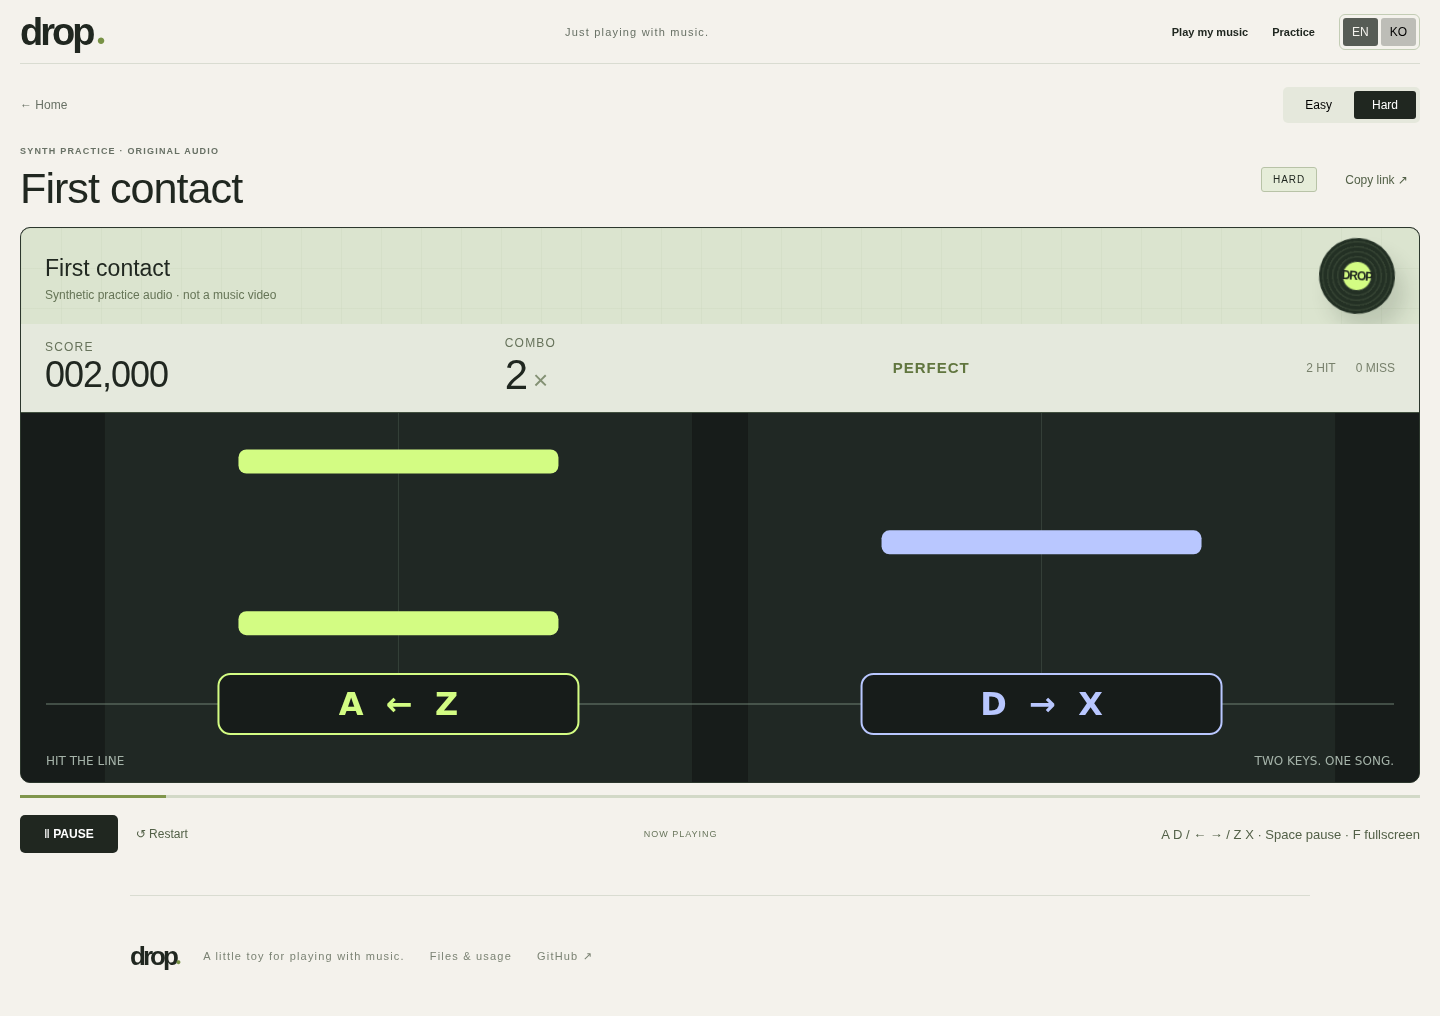
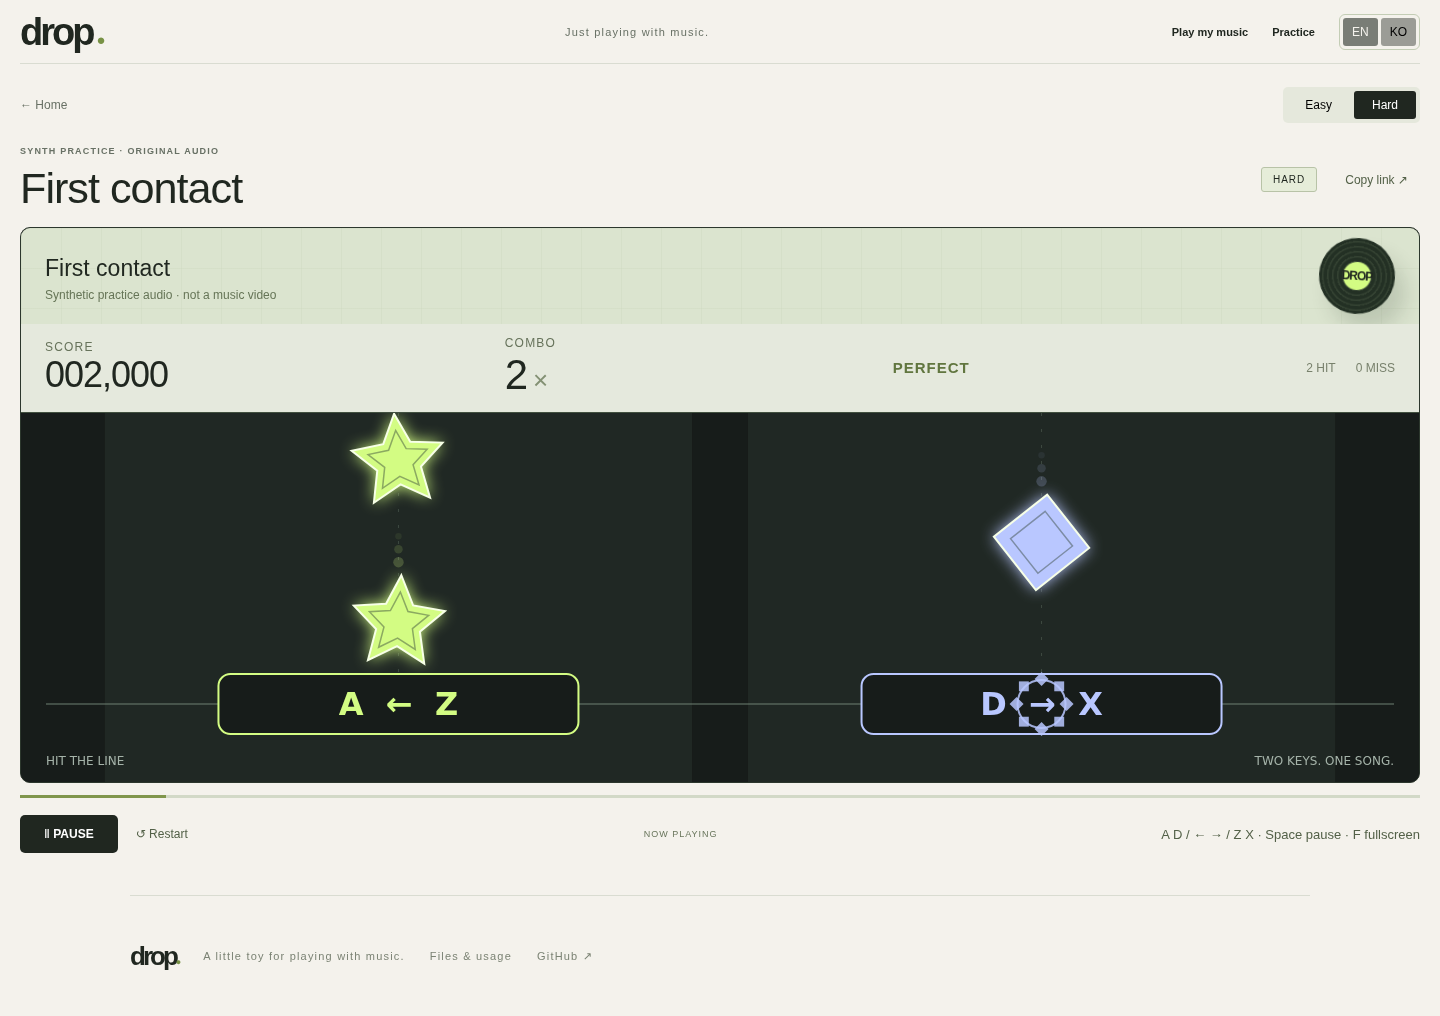
Add falling stars and diamonds and revise the bilingual headline

diff --git a/src/render.ts b/src/render.ts
@@ -1,47 +1,113 @@
 import type { Chart, Lane } from './chart';
 import type { Snapshot } from './engine';
+
+type Burst = { lane: Lane; born: number };
+type Effects = { hits: number; time: number; bursts: Burst[]; reduced: boolean; judged: ReadonlySet<number> };
+const effects = new WeakMap<HTMLCanvasElement, Effects>();
+const chartSpacing = new WeakMap<Chart, number>();
+function minimumLaneSpacing(chart: Chart) {
+  const cached = chartSpacing.get(chart);
+  if (cached !== undefined) return cached;
+  const previous: Partial<Record<Lane, number>> = {};
+  let spacing = 1000;
+  for (const note of chart.notes) {
+    const last = previous[note.lane];
+    if (last !== undefined) spacing = Math.min(spacing, note.timeMs - last);
+    previous[note.lane] = note.timeMs;
+  }
+  chartSpacing.set(chart, spacing);
+  return spacing;
+}
+
+function shape(ctx: CanvasRenderingContext2D, lane: Lane, radius: number) {
+  ctx.beginPath();
+  const points = lane === 'A' ? 10 : 4;
+  for (let i = 0; i < points; i++) {
+    const angle = -Math.PI / 2 + i * Math.PI * 2 / points;
+    const r = lane === 'A' && i % 2 ? radius * .48 : radius;
+    const x = Math.cos(angle) * r, y = Math.sin(angle) * r;
+    if (i === 0) ctx.moveTo(x, y); else ctx.lineTo(x, y);
+  }
+  ctx.closePath();
+}
+
 export function renderNotes(canvas: HTMLCanvasElement, chart: Chart, state: Snapshot, pressed: Set<Lane>) {
-  const width = canvas.clientWidth;
-  const height = canvas.clientHeight;
+  const width = canvas.clientWidth, height = canvas.clientHeight;
   const ratio = Math.min(window.devicePixelRatio || 1, 2);
   if (canvas.width !== Math.round(width * ratio) || canvas.height !== Math.round(height * ratio)) {
     canvas.width = Math.round(width * ratio); canvas.height = Math.round(height * ratio);
   }
   const ctx = canvas.getContext('2d');
   if (!ctx) return;
+  const hitY = height - 78;
+  const centers: Record<Lane, number> = { A: width * .27, D: width * .73 };
+  const colors: Record<Lane, string> = { A: '#d3fc83', D: '#b9c7ff' };
+  const laneWidth = width * .42;
+  // Keep dense Hard notes legible: cap the diameter by the nearest note spacing.
+  const spacing = minimumLaneSpacing(chart);
+  const radius = Math.max(18, Math.min(48, laneWidth * .23, spacing / 1800 * hitY * .8));
+  const keyWidth = Math.min(laneWidth * .85, 360);
+  let fx = effects.get(canvas);
+  if (!fx) { fx = { hits: state.hits, time: state.timeMs, bursts: [], judged: state.judged, reduced: matchMedia('(prefers-reduced-motion: reduce)').matches }; effects.set(canvas, fx); }
+  if (state.timeMs < fx.time || state.hits < fx.hits) fx.bursts = [];
+  if (state.hits > fx.hits && !fx.reduced) {
+    // Newly judged notes close to the current clock identify successful hits, even after keyup.
+    chart.notes.forEach((note, index) => {
+      if (state.judged.has(index) && !fx.judged.has(index) && Math.abs(note.timeMs + chart.offsetMs - state.timeMs) <= 140) fx.bursts.push({ lane: note.lane, born: state.timeMs });
+    });
+  }
+  fx.hits = state.hits; fx.time = state.timeMs; fx.judged = state.judged;
+  fx.bursts = fx.bursts.filter(burst => state.timeMs - burst.born < 420).slice(-8);
   ctx.setTransform(ratio, 0, 0, ratio, 0, 0);
   ctx.fillStyle = '#171c1a'; ctx.fillRect(0, 0, width, height);
-  const hitY = height - 78;
-  const left = width * 0.27;
-  const right = width * 0.73;
-  const laneWidth = width * 0.42;
-  const noteWidth = Math.min(laneWidth * 0.78, 320);
-  const keyWidth = Math.min(laneWidth * 0.85, 360);
   ctx.lineWidth = 1;
-  [left, right].forEach(x => {
+  for (const lane of ['A', 'D'] as const) {
+    const x = centers[lane];
     ctx.fillStyle = '#202824'; ctx.fillRect(x - laneWidth / 2, 0, laneWidth, height);
-    ctx.strokeStyle = '#354139'; ctx.beginPath(); ctx.moveTo(x, 0); ctx.lineTo(x, hitY); ctx.stroke();
-  });
+    ctx.strokeStyle = '#3d4a41'; ctx.setLineDash([3, 13]); ctx.beginPath(); ctx.moveTo(x, 0); ctx.lineTo(x, hitY); ctx.stroke(); ctx.setLineDash([]);
+  }
   ctx.strokeStyle = '#6e8073'; ctx.beginPath(); ctx.moveTo(25, hitY); ctx.lineTo(width - 25, hitY); ctx.stroke();
   chart.notes.forEach((note, i) => {
     if (state.judged.has(i)) return;
     const delta = note.timeMs + chart.offsetMs - state.timeMs;
     if (delta > 1800 || delta < -180) return;
     const y = hitY - delta / 1800 * hitY;
-    ctx.fillStyle = note.lane === 'A' ? '#d3fc83' : '#b9c7ff';
-    ctx.beginPath(); ctx.roundRect((note.lane === 'A' ? left : right) - noteWidth / 2, y - 12, noteWidth, 24, 8); ctx.fill();
+    const color = colors[note.lane];
+    ctx.save(); ctx.translate(centers[note.lane], y);
+    if (!fx.reduced) {
+      for (let tail = 3; tail > 0; tail--) {
+        ctx.globalAlpha = .07 * (4 - tail); ctx.fillStyle = color;
+        ctx.beginPath(); ctx.arc(0, -radius - tail * 13, Math.max(2, radius * .13 - tail), 0, Math.PI * 2); ctx.fill();
+      }
+      ctx.globalAlpha = 1;
+      ctx.rotate(Math.sin(state.timeMs / 750 + i * 1.7) * .14);
+    }
+    ctx.shadowColor = color; ctx.shadowBlur = 16;
+    ctx.fillStyle = color; shape(ctx, note.lane, radius); ctx.fill();
+    ctx.shadowBlur = 0; ctx.strokeStyle = '#f7ffe7'; ctx.lineWidth = 2; ctx.stroke();
+    ctx.globalAlpha = .45; ctx.strokeStyle = '#344438'; ctx.lineWidth = 1.5;
+    shape(ctx, note.lane, radius * .65); ctx.stroke(); ctx.restore();
   });
-  (['A', 'D'] as const).forEach((lane, index) => {
-    const x = index ? right : left;
-    const color = index ? '#b9c7ff' : '#d3fc83';
-    ctx.fillStyle = pressed.has(lane) ? color : '#171c1a';
+  for (const lane of ['A', 'D'] as const) {
+    const x = centers[lane], color = colors[lane];
+    ctx.save(); ctx.fillStyle = pressed.has(lane) ? color : '#171c1a';
     ctx.strokeStyle = color; ctx.lineWidth = 2;
+    if (pressed.has(lane)) { ctx.shadowColor = color; ctx.shadowBlur = 20; }
     ctx.beginPath(); ctx.roundRect(x - keyWidth / 2, hitY - 30, keyWidth, 60, 12); ctx.fill(); ctx.stroke();
-    ctx.fillStyle = pressed.has(lane) ? '#171c1a' : color;
-    ctx.font = `700 ${width < 500 ? 23 : 32}px system-ui`; ctx.textAlign = 'center';
-    ctx.fillText(index ? 'D  →  X' : 'A  ←  Z', x, hitY + 11);
-  });
-  ctx.textAlign = 'left'; ctx.fillStyle = '#a5b3a9'; ctx.font = '12px system-ui';
-  ctx.fillText('HIT THE LINE', 25, height - 17);
+    ctx.shadowBlur = 0; ctx.fillStyle = pressed.has(lane) ? '#171c1a' : color;
+    ctx.font = `700 ${width < 500 ? 23 : 32}px system-ui`; ctx.textAlign = 'center'; ctx.fillText(lane === 'A' ? 'A  ←  Z' : 'D  →  X', x, hitY + 11); ctx.restore();
+  }
+  for (const burst of fx.bursts) {
+    const age = (state.timeMs - burst.born) / 420;
+    ctx.save(); ctx.globalAlpha = (1 - age) * .85; ctx.strokeStyle = colors[burst.lane]; ctx.lineWidth = 2;
+    ctx.beginPath(); ctx.arc(centers[burst.lane], hitY, 24 + age * 70, 0, Math.PI * 2); ctx.stroke();
+    for (let i = 0; i < 8; i++) {
+      const angle = i * Math.PI / 4;
+      ctx.save(); ctx.translate(centers[burst.lane] + Math.cos(angle) * (25 + age * 85), hitY + Math.sin(angle) * (25 + age * 70));
+      ctx.rotate(angle + age); ctx.fillStyle = colors[burst.lane]; shape(ctx, burst.lane, 5 * (1 - age) + 2); ctx.fill(); ctx.restore();
+    }
+    ctx.restore();
+  }
+  ctx.textAlign = 'left'; ctx.fillStyle = '#a5b3a9'; ctx.font = '12px system-ui'; ctx.fillText('HIT THE LINE', 25, height - 17);
   ctx.textAlign = 'right'; ctx.fillText(state.practice ? 'PRACTICE · SEEK USED' : 'TWO KEYS. ONE SONG.', width - 25, height - 17);
 }

diff --git a/src/main.tsx b/src/main.tsx
@@ -10,7 +10,7 @@ function App() {
   const language = useSyncExternalStore(subscribeLanguage, getLanguage);
   const [difficulty, setDifficulty] = useState<Difficulty>('easy');
   const [practice, setPractice] = useState(() => practiceChart('easy'));
-  useEffect(() => { document.documentElement.lang = language; document.title = t('DROP · 내 음악으로 리듬게임', 'DROP · Play your music'); }, [language]);
+  useEffect(() => { document.documentElement.lang = language; document.title = t('내가 좋아하는 노래들은 왜 리듬게임에 추가 안 해주지? · DROP', 'Why aren’t my favorite songs in rhythm games? · DROP'); }, [language]);
   function choose(level: Difficulty) { setDifficulty(level); setPractice(practiceChart(level)); }
   const path = location.pathname;
   return <>
@@ -25,7 +25,7 @@ function App() {
         <div className="back-row"><a href="/">{t('← 홈으로', '← Home')}</a><div className="difficulty-switch"><button aria-pressed={difficulty === 'easy'} onClick={() => choose('easy')}>Easy</button><button aria-pressed={difficulty === 'hard'} onClick={() => choose('hard')}>Hard</button></div></div>
         <Player key={practice.chartId} chart={practice} practice />
       </> : path === '/privacy' ? <Privacy /> : path === '/' ? <>
-        <section className="hero"><div className="hero-copy"><span className="eyebrow">{t('내 컴퓨터에서, 내 음악으로', 'YOUR COMPUTER. YOUR MUSIC.')}</span><h1>{t('좋아하는 노래로', 'A song you love.')}<br /><em>{t('한 판 어때요?', 'A game to play.')}</em></h1><p>{t('음악 파일을 고르고, 두 개의 키로 리듬을 타세요.', 'Choose an audio file and follow the rhythm with two keys.')}<br />{t('잘 치지 않아도 괜찮아요. 그냥 재미로.', 'No need to be good. Just have fun.')}</p>
+        <section className="hero"><div className="hero-copy"><span className="eyebrow">{t('내 컴퓨터에서, 내 음악으로', 'YOUR COMPUTER. YOUR MUSIC.')}</span><h1>{t('내가 좋아하는 노래들은', 'Why aren’t my favorite songs')}<br /><em>{t('왜 리듬게임에 추가 안 해주지?', 'in rhythm games?')}</em></h1><p>{t('음악 파일을 고르고, 두 개의 키로 리듬을 타세요.', 'Choose an audio file and follow the rhythm with two keys.')}<br />{t('잘 치지 않아도 괜찮아요. 그냥 재미로.', 'No need to be good. Just have fun.')}</p>
           <div className="home-actions"><a className="primary" href="/create">{t('내 음악으로 플레이 →', 'Play my music →')}</a><a className="secondary" href="/practice">{t('먼저 연습해 보기', 'Try a practice round')}</a></div></div>
           <div className="hero-mark" aria-hidden="true"><div className="key-tile key-a">A<span>← / Z</span></div><div className="key-tile key-d">D<span>→ / X</span></div></div>
         </section>

diff --git a/src/Player.tsx b/src/Player.tsx
@@ -102,7 +102,7 @@ export function Player({ chart, practice = false, imported = false, onDraftChang
     window.render_game_to_text = () => JSON.stringify({
       ...engine.current.snapshot, judged: engine.current.snapshot.judged.size,
       coordinates: 'Canvas origin top-left; notes fall down to hit line. Lane A at 27%, D at 73%.',
-      pressed: [...pressed.current], controls: { left: ['A', 'ArrowLeft', 'Z'], right: ['D', 'ArrowRight', 'X'] },
+      pressed: [...pressed.current], noteShapes: { A: 'star', D: 'diamond' }, controls: { left: ['A', 'ArrowLeft', 'Z'], right: ['D', 'ArrowRight', 'X'] },
       chartId: activeChart.current.chartId, offsetMs: activeChart.current.offsetMs,
       notes: activeChart.current.notes.filter((note, i) => !engine.current.snapshot.judged.has(i) && Math.abs(note.timeMs + activeChart.current.offsetMs - engine.current.snapshot.timeMs) < 1800),
     });

diff --git a/src/style.css b/src/style.css
@@ -324,3 +324,6 @@ body:has(.session) .site-header { height: 64px; width: calc(100% - 40px); }
 .local-note a { text-decoration: underline; }
 .generate-button { margin-top: 18px; }
 @media(max-width:600px) { .header-links { gap: 8px; } .language-switch button { padding: 6px; } .header-links .header-link { font-size: 10px; } .local-note { padding: 20px; } }
+.hero-copy { min-width: 0; flex: 1; }
+.hero-mark { flex-shrink: 0; }
+html[lang=ko] .hero h1 { font-size: clamp(38px, 4.2vw, 58px); line-height: 1.2; word-break: keep-all; }

diff --git a/README.ko.md b/README.ko.md
@@ -1,6 +1,6 @@
 # DROP
 
-**내 음악으로 즐기는 작은 리듬게임. 그냥 재미로 만들었습니다.**
+**내가 좋아하는 노래들은 왜 리듬게임에 추가 안 해주지?**
 
 [English](README.md) · [한국어](README.ko.md)
 

diff --git a/README.md b/README.md
@@ -1,6 +1,6 @@
 # DROP
 
-**A little rhythm game for your own music. Just for fun.**
+**Why aren’t my favorite songs in rhythm games?**
 
 [English](README.md) · [한국어](README.ko.md)
 
